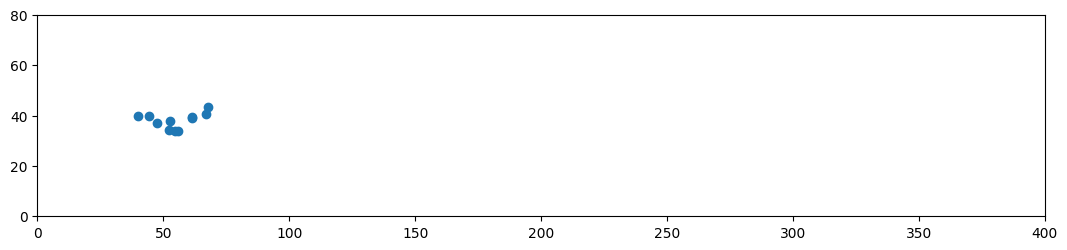
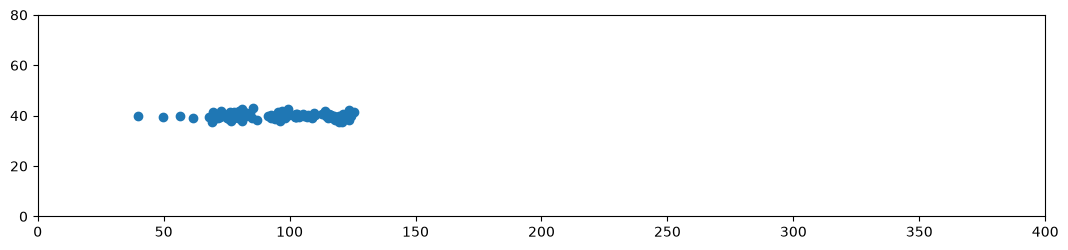
better plot

diff --git a/README.md b/README.md
@@ -16,7 +16,7 @@ See https://github.com/dyth/causal-entropic-forces/blob/main/just_code_tutorial.
 ```commandline
 conda create --name entropica python=3.14.7
 conda activate entropica
-pip install notebook==7.6.2 ipython==9.17.1 numpy==2.5.3 matplotlib==3.11.2 scipy==1.18.1
+pip install notebook==7.6.2 ipython==9.17.1 numpy==2.5.3 matplotlib==3.11.2 scipy==1.18.1 ipympl==0.10.0
 ```
 
 To run the JAX notebook, JAX needs to be installed:
